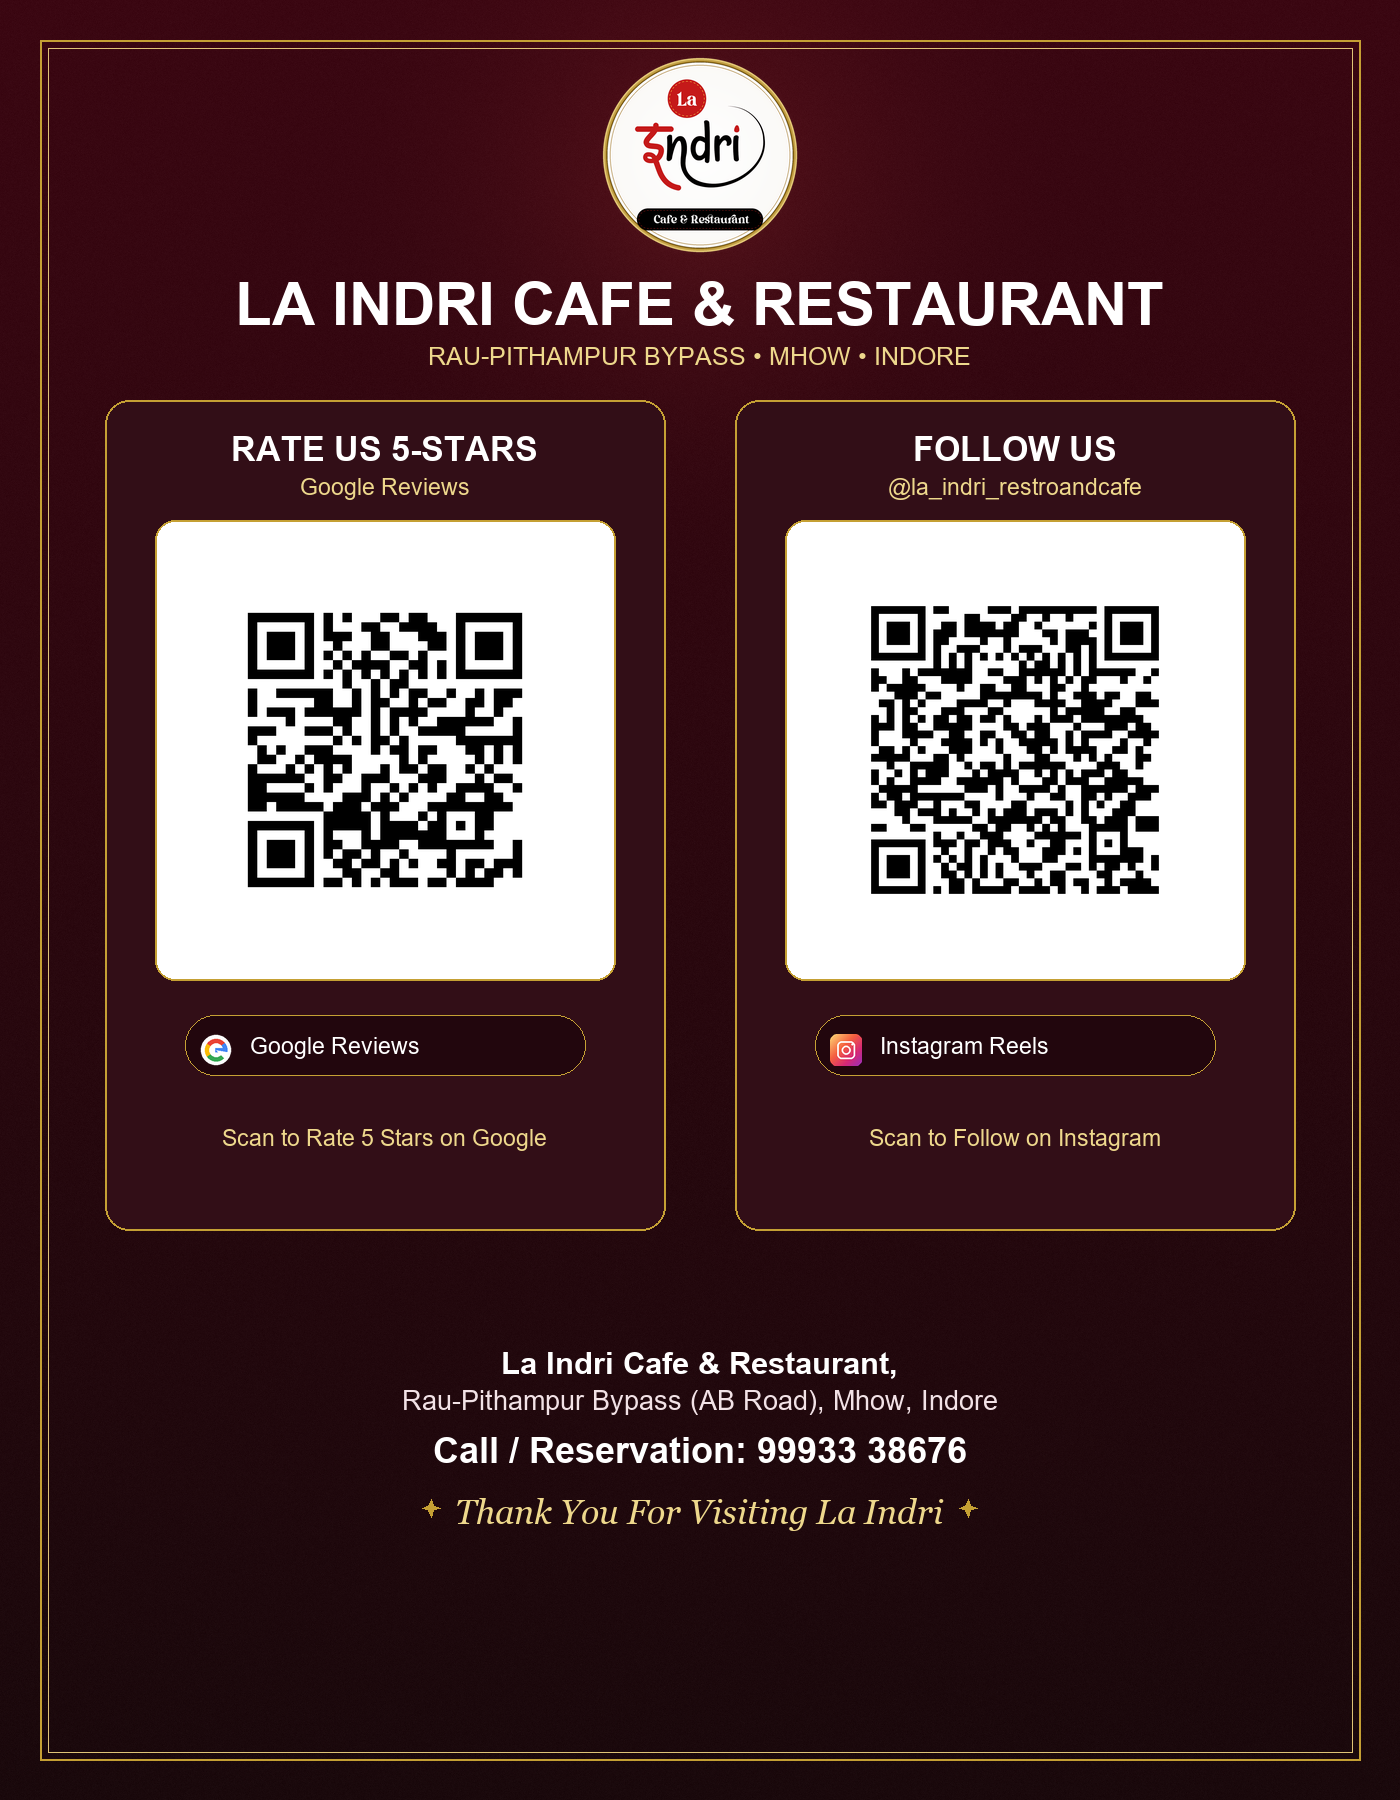
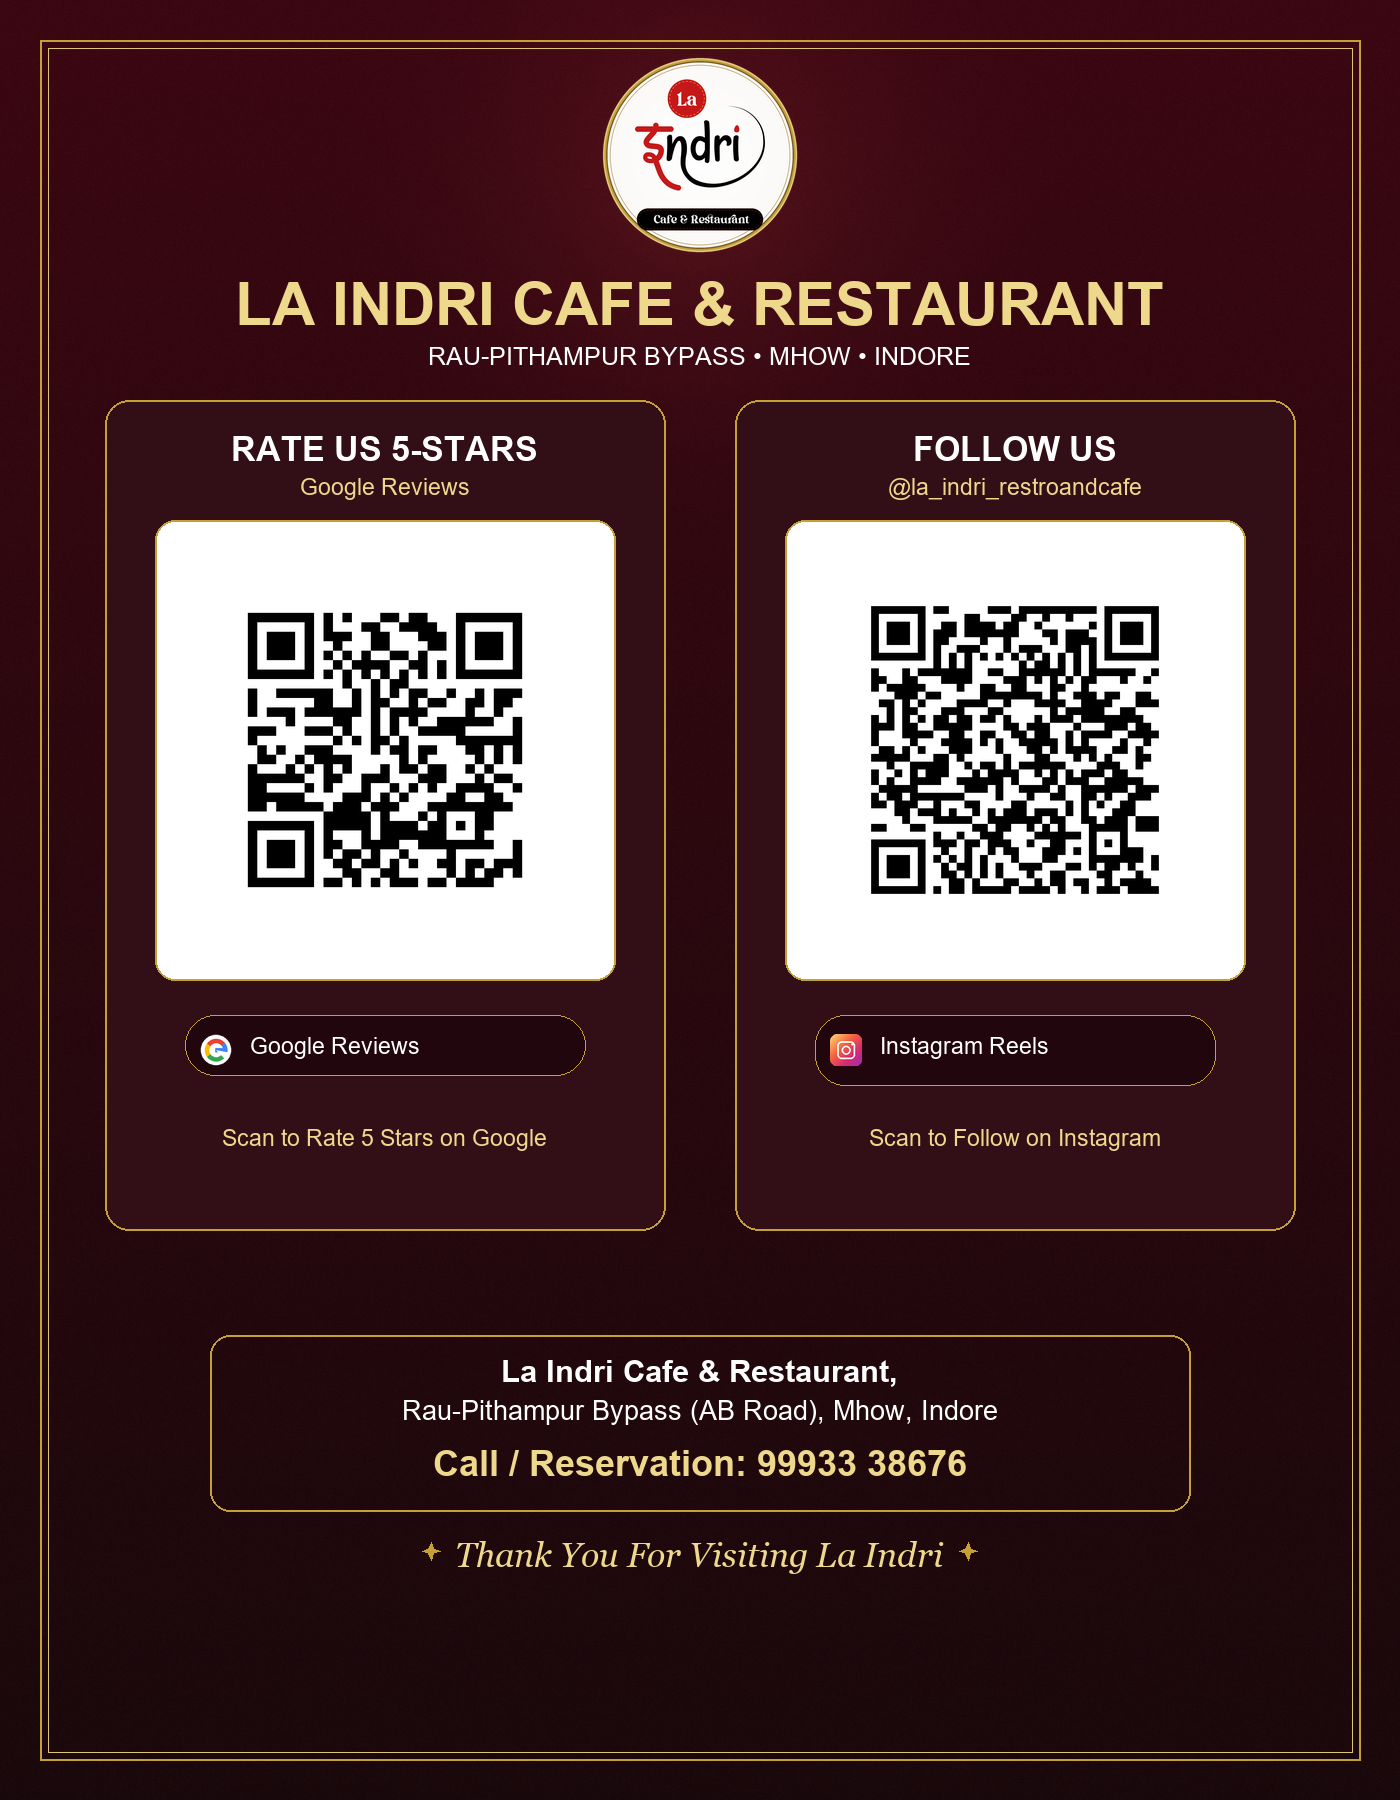
update: exact reference image styling with gold title, white subtitle, 1cm QR margin, and gold framed address/phone

Changed region(s): [[0.2764, 0.7467, 0.7064, 0.8711], [0.1536, 0.1556, 0.8293, 0.2178]]

diff --git a/standee.html b/standee.html
@@ -124,14 +124,14 @@
             font-size: 24px;
             font-weight: 800;
             letter-spacing: 0.6px;
-            color: #ffffff;
+            color: #eed88c;
             margin-bottom: 3px;
         }
 
         .brand-sub {
             font-size: 11.5px;
             font-weight: 600;
-            color: #eed88c;
+            color: #ffffff;
             letter-spacing: 1.2px;
             text-transform: uppercase;
             margin-bottom: 6px;
@@ -215,15 +215,28 @@
 
         /* Footer */
         .footer-block {
+            width: 100%;
             margin-bottom: 2px;
             display: flex;
             flex-direction: column;
             align-items: center;
-            gap: 3px;
+            gap: 4px;
+        }
+
+        .address-box {
+            border: 1.5px solid #c5a034;
+            border-radius: 14px;
+            padding: 9px 18px;
+            width: 92%;
+            display: flex;
+            flex-direction: column;
+            align-items: center;
+            gap: 2px;
+            margin-bottom: 5px;
         }
 
         .location-title {
-            font-size: 13.5px;
+            font-size: 13px;
             font-weight: 700;
             color: #ffffff;
             letter-spacing: 0.3px;
@@ -231,16 +244,16 @@
 
         .location-text {
             font-size: 11px;
-            color: #f2e2e6;
+            color: #ffffff;
             line-height: 1.35;
         }
 
         .phone-text {
-            font-size: 14.5px;
-            color: #ffffff;
+            font-size: 14px;
+            color: #eed88c;
             font-weight: 800;
             letter-spacing: 0.4px;
-            margin-top: 1px;
+            margin-top: 2px;
         }
 
         .footer-note {
@@ -321,9 +334,11 @@
 
         <!-- Bottom: Location, Phone & Footer -->
         <div class="footer-block">
-            <div class="location-title">La Indri Cafe & Restaurant,</div>
-            <div class="location-text" id="stAddress">Rau-Pithampur Bypass (AB Road), Mhow, Indore</div>
-            <div class="phone-text" id="stPhone">Call / Reservation: 99933 38676</div>
+            <div class="address-box">
+                <div class="location-title">La Indri Cafe & Restaurant,</div>
+                <div class="location-text" id="stAddress">Rau-Pithampur Bypass (AB Road), Mhow, Indore</div>
+                <div class="phone-text" id="stPhone">Call / Reservation: 99933 38676</div>
+            </div>
             <div class="footer-note">
                 <span class="sparkle-icon">✦</span>
                 <span id="stFooterThanks">Thank You For Visiting La Indri</span>

diff --git a/generate_qr.py b/generate_qr.py
@@ -204,33 +204,33 @@ def generate_single_direct_standee(qr_img, title, tagline, badge_icon, badge_tex
     standee = create_luxury_burgundy_background(w, h)
     draw = ImageDraw.Draw(standee)
 
-    # Thin, subtle satin gold double border
+    # 1. Thin, subtle satin gold double border
     border_margin = 42
     draw.rectangle([border_margin, border_margin, w - border_margin, h - border_margin], outline="#c5a034", width=2)
     draw.rectangle([border_margin + 8, border_margin + 8, w - border_margin - 8, h - border_margin - 8], outline="#dfc476", width=1)
 
     brand_font, instruction_font, sub_font, badge_font, addr1_font, addr2_font, phone_font, thanks_font = get_fonts()
 
-    # Header: Logo (Prominent 250x250)
+    # 2. Header: Logo Medallion (Prominent 250x250)
     logo_file = "logo_with_gold_rim.png" if os.path.exists("logo_with_gold_rim.png") else "logo.png"
     if os.path.exists(logo_file):
         logo = Image.open(logo_file).convert("RGBA").resize((250, 250), Image.Resampling.LANCZOS)
         standee.paste(logo, ((w - 250) // 2, 65), logo)
 
-    # Brand Title
+    # 3. Brand Title: GOLD (as in reference image)
     name_display = f"{cfg.get('restaurantName', 'LA INDRI').upper()} CAFE & RESTAURANT"
     nb = draw.textbbox((0, 0), name_display, font=brand_font)
-    draw.text(((w - (nb[2] - nb[0])) // 2, 330), name_display, fill="#ffffff", font=brand_font)
+    draw.text(((w - (nb[2] - nb[0])) // 2, 330), name_display, fill="#eed88c", font=brand_font)
 
-    # Tagline
+    # 4. Location Subtitle: WHITE (as in reference image)
     tb2 = draw.textbbox((0, 0), tagline, font=sub_font)
-    draw.text(((w - (tb2[2] - tb2[0])) // 2, 390), tagline, fill="#eed88c", font=sub_font)
+    draw.text(((w - (tb2[2] - tb2[0])) // 2, 390), tagline, fill="#ffffff", font=sub_font)
 
-    # Instruction Title
+    # 5. Instruction Title: WHITE (as in reference image)
     ib = draw.textbbox((0, 0), title, font=instruction_font)
     draw.text(((w - (ib[2] - ib[0])) // 2, 445), title, fill="#ffffff", font=instruction_font)
 
-    # Clean Pill Badge
+    # 6. Clean Pill Badge
     bb = draw.textbbox((0, 0), badge_text, font=badge_font)
     b_w = (bb[2] - bb[0]) + 76
     b_h = 56
@@ -242,10 +242,10 @@ def generate_single_direct_standee(qr_img, title, tagline, badge_icon, badge_tex
         standee.paste(ico, (b_x + 16, b_y + 11), ico)
     draw.text((b_x + 64, b_y + 14), badge_text, fill="#ffffff", font=badge_font)
 
-    # Big Direct QR Card with approx 1 cm (~118px) white margin
+    # 7. Big Direct QR Card with approx 1 cm (~118px) white margin
     qr_card_size = 750
     qr_card_x = (w - qr_card_size) // 2
-    qr_card_y = 580
+    qr_card_y = 575
     margin_1cm = 118
     qr_size = qr_card_size - 2 * margin_1cm
     draw.rounded_rectangle(
@@ -255,27 +255,39 @@ def generate_single_direct_standee(qr_img, title, tagline, badge_icon, badge_tex
     qr_resized = qr_img.resize((qr_size, qr_size), Image.Resampling.LANCZOS)
     standee.paste(qr_resized, (qr_card_x + margin_1cm, qr_card_y + margin_1cm))
 
-    # Bottom Address & Phone (Bigger, bright, 2-line address + bold phone)
+    # 8. Address + Phone Framed in Thin Gold Box (as in reference image)
+    box_w = 980
+    box_h = 176
+    box_x = (w - box_w) // 2
+    box_y = 1345
+    draw.rounded_rectangle(
+        [box_x, box_y, box_x + box_w, box_y + box_h],
+        radius=20, fill=None, outline="#c5a034", width=2
+    )
+
     addr_line1 = "La Indri Cafe & Restaurant,"
     addr_line2 = "Rau-Pithampur Bypass (AB Road), Mhow, Indore"
     phone_text = cfg.get("phoneButtonText", "Call / Reservation: 99933 38676")
 
+    # Address lines in WHITE
     a1_b = draw.textbbox((0, 0), addr_line1, font=addr1_font)
-    draw.text(((w - (a1_b[2] - a1_b[0])) // 2, 1362), addr_line1, fill="#ffffff", font=addr1_font)
+    draw.text(((w - (a1_b[2] - a1_b[0])) // 2, box_y + 18), addr_line1, fill="#ffffff", font=addr1_font)
 
     a2_b = draw.textbbox((0, 0), addr_line2, font=addr2_font)
-    draw.text(((w - (a2_b[2] - a2_b[0])) // 2, 1406), addr_line2, fill="#f2e2e6", font=addr2_font)
+    draw.text(((w - (a2_b[2] - a2_b[0])) // 2, box_y + 60), addr_line2, fill="#ffffff", font=addr2_font)
 
+    # Phone line in GOLD & BOLD
     pb = draw.textbbox((0, 0), phone_text, font=phone_font)
-    draw.text(((w - (pb[2] - pb[0])) // 2, 1456), phone_text, fill="#ffffff", font=phone_font)
+    draw.text(((w - (pb[2] - pb[0])) // 2, box_y + 108), phone_text, fill="#eed88c", font=phone_font)
 
+    # 9. Bottom Thanks with Gold Sparkles
     thanks_text = "Thank You For Visiting La Indri"
     thb = draw.textbbox((0, 0), thanks_text, font=thanks_font)
     tw = thb[2] - thb[0]
     tx = (w - tw) // 2
-    draw.text((tx, 1522), thanks_text, fill="#eed88c", font=thanks_font)
-    draw_gold_sparkle(draw, tx - 24, 1538, 9, "#c5a034")
-    draw_gold_sparkle(draw, tx + tw + 24, 1538, 9, "#c5a034")
+    draw.text((tx, 1545), thanks_text, fill="#eed88c", font=thanks_font)
+    draw_gold_sparkle(draw, tx - 24, 1561, 9, "#c5a034")
+    draw_gold_sparkle(draw, tx + tw + 24, 1561, 9, "#c5a034")
 
     for fn in out_filenames:
         standee.save(fn, "PNG", dpi=(300, 300))
@@ -285,31 +297,35 @@ def generate_dual_link_standee(qr_img, cfg):
     standee = create_luxury_burgundy_background(w, h)
     draw = ImageDraw.Draw(standee)
 
-    # Thin, subtle satin gold double border
+    # 1. Thin, subtle satin gold double border
     border_margin = 42
     draw.rectangle([border_margin, border_margin, w - border_margin, h - border_margin], outline="#c5a034", width=2)
     draw.rectangle([border_margin + 8, border_margin + 8, w - border_margin - 8, h - border_margin - 8], outline="#dfc476", width=1)
 
     brand_font, instruction_font, sub_font, badge_font, addr1_font, addr2_font, phone_font, thanks_font = get_fonts()
 
+    # 2. Header: Logo Medallion
     logo_file = "logo_with_gold_rim.png" if os.path.exists("logo_with_gold_rim.png") else "logo.png"
     if os.path.exists(logo_file):
         logo = Image.open(logo_file).convert("RGBA").resize((250, 250), Image.Resampling.LANCZOS)
         standee.paste(logo, ((w - 250) // 2, 65), logo)
 
+    # 3. Brand Title: GOLD (as in reference image)
     name_display = f"{cfg.get('restaurantName', 'LA INDRI').upper()} CAFE & RESTAURANT"
     nb = draw.textbbox((0, 0), name_display, font=brand_font)
-    draw.text(((w - (nb[2] - nb[0])) // 2, 330), name_display, fill="#ffffff", font=brand_font)
+    draw.text(((w - (nb[2] - nb[0])) // 2, 330), name_display, fill="#eed88c", font=brand_font)
 
+    # 4. Location Subtitle: WHITE (as in reference image)
     tag_text = cfg.get("tagline", "RAU-PITHAMPUR BYPASS • MHOW • INDORE").replace("*", "•")
     tb2 = draw.textbbox((0, 0), tag_text, font=sub_font)
-    draw.text(((w - (tb2[2] - tb2[0])) // 2, 390), tag_text, fill="#eed88c", font=sub_font)
+    draw.text(((w - (tb2[2] - tb2[0])) // 2, 390), tag_text, fill="#ffffff", font=sub_font)
 
+    # 5. Instruction Title: WHITE
     inst_text = "SCAN TO CONNECT"
     ib = draw.textbbox((0, 0), inst_text, font=instruction_font)
     draw.text(((w - (ib[2] - ib[0])) // 2, 445), inst_text, fill="#ffffff", font=instruction_font)
 
-    # Badges for Google and Instagram side-by-side
+    # 6. Badges for Google and Instagram side-by-side
     g_text = "Rate Us on Google"
     i_text = "Follow Us on Instagram"
     gb_box = draw.textbbox((0, 0), g_text, font=badge_font)
@@ -346,10 +362,10 @@ def generate_dual_link_standee(qr_img, cfg):
         standee.paste(i_ico, (insta_x + 16, badges_y + 11), i_ico)
     draw.text((insta_x + 64, badges_y + 14), i_text, fill="#ffffff", font=badge_font)
 
-    # Main QR Card with approx 1 cm (~118px) white margin
+    # 7. Main QR Card with approx 1 cm (~118px) white margin
     qr_card_size = 750
     qr_card_x = (w - qr_card_size) // 2
-    qr_card_y = 580
+    qr_card_y = 575
     margin_1cm = 118
     qr_size = qr_card_size - 2 * margin_1cm
     draw.rounded_rectangle(
@@ -359,27 +375,39 @@ def generate_dual_link_standee(qr_img, cfg):
     qr_resized = qr_img.resize((qr_size, qr_size), Image.Resampling.LANCZOS)
     standee.paste(qr_resized, (qr_card_x + margin_1cm, qr_card_y + margin_1cm))
 
-    # Bottom Address & Phone (Bigger, bright, 2-line address + bold phone)
+    # 8. Address + Phone Framed in Thin Gold Box (as in reference image)
+    box_w = 980
+    box_h = 176
+    box_x = (w - box_w) // 2
+    box_y = 1345
+    draw.rounded_rectangle(
+        [box_x, box_y, box_x + box_w, box_y + box_h],
+        radius=20, fill=None, outline="#c5a034", width=2
+    )
+
     addr_line1 = "La Indri Cafe & Restaurant,"
     addr_line2 = "Rau-Pithampur Bypass (AB Road), Mhow, Indore"
     phone_text = cfg.get("phoneButtonText", "Call / Reservation: 99933 38676")
 
+    # Address lines in WHITE
     a1_b = draw.textbbox((0, 0), addr_line1, font=addr1_font)
-    draw.text(((w - (a1_b[2] - a1_b[0])) // 2, 1362), addr_line1, fill="#ffffff", font=addr1_font)
+    draw.text(((w - (a1_b[2] - a1_b[0])) // 2, box_y + 18), addr_line1, fill="#ffffff", font=addr1_font)
 
     a2_b = draw.textbbox((0, 0), addr_line2, font=addr2_font)
-    draw.text(((w - (a2_b[2] - a2_b[0])) // 2, 1406), addr_line2, fill="#f2e2e6", font=addr2_font)
+    draw.text(((w - (a2_b[2] - a2_b[0])) // 2, box_y + 60), addr_line2, fill="#ffffff", font=addr2_font)
 
+    # Phone line in GOLD & BOLD
     pb = draw.textbbox((0, 0), phone_text, font=phone_font)
-    draw.text(((w - (pb[2] - pb[0])) // 2, 1456), phone_text, fill="#ffffff", font=phone_font)
+    draw.text(((w - (pb[2] - pb[0])) // 2, box_y + 108), phone_text, fill="#eed88c", font=phone_font)
 
+    # 9. Bottom Thanks with Gold Sparkles
     thanks_text = "Thank You For Visiting La Indri"
     thb = draw.textbbox((0, 0), thanks_text, font=thanks_font)
     tw = thb[2] - thb[0]
     tx = (w - tw) // 2
-    draw.text((tx, 1522), thanks_text, fill="#eed88c", font=thanks_font)
-    draw_gold_sparkle(draw, tx - 24, 1538, 9, "#c5a034")
-    draw_gold_sparkle(draw, tx + tw + 24, 1538, 9, "#c5a034")
+    draw.text((tx, 1545), thanks_text, fill="#eed88c", font=thanks_font)
+    draw_gold_sparkle(draw, tx - 24, 1561, 9, "#c5a034")
+    draw_gold_sparkle(draw, tx + tw + 24, 1561, 9, "#c5a034")
 
     standee.save("table_standee_printable.png", "PNG", dpi=(300, 300))
     standee.save("front_page_standee.png", "PNG", dpi=(300, 300))
@@ -419,11 +447,11 @@ def generate_dual_standee_card(img_google, img_insta, cfg):
 
     title = f"{cfg.get('restaurantName', 'LA INDRI').upper()} CAFE & RESTAURANT"
     tb = draw.textbbox((0, 0), title, font=title_font)
-    draw.text(((w - (tb[2] - tb[0])) // 2, 270), title, fill="#ffffff", font=title_font)
+    draw.text(((w - (tb[2] - tb[0])) // 2, 270), title, fill="#eed88c", font=title_font)
 
     sub = "RAU-PITHAMPUR BYPASS • MHOW • INDORE"
     sb = draw.textbbox((0, 0), sub, font=sub_font)
-    draw.text(((w - (sb[2] - sb[0])) // 2, 342), sub, fill="#eed88c", font=sub_font)
+    draw.text(((w - (sb[2] - sb[0])) // 2, 342), sub, fill="#ffffff", font=sub_font)
 
     card_w, card_h = 560, 830
     y_pos = 400
@@ -474,7 +502,7 @@ def generate_dual_standee_card(img_google, img_insta, cfg):
     standee.paste(qr_i_resized, (qr_x_i + margin_dual, y_pos + 120 + margin_dual))
 
     # Instagram badge pill
-    draw.rounded_rectangle([x_i + 80, y_pos + 615, x_i + card_w - 80, y_pos + 675], radius=30, fill="#22060d", outline="#c5a034", width=1)
+    draw.rounded_rectangle([x_i + 80, y_pos + 615, x_i + card_w - 80, y_pos + 685], radius=30, fill="#22060d", outline="#c5a034", width=1)
     if os.path.exists("instagram_icon.png"):
         i_ico = Image.open("instagram_icon.png").convert("RGBA").resize((32, 32), Image.Resampling.LANCZOS)
         standee.paste(i_ico, (x_i + 95, y_pos + 634), i_ico)
@@ -485,27 +513,36 @@ def generate_dual_standee_card(img_google, img_insta, cfg):
     ibtn_b = draw.textbbox((0, 0), i_btn, font=box_sub_font)
     draw.text((x_i + (card_w - (ibtn_b[2] - ibtn_b[0])) // 2, y_pos + 725), i_btn, fill="#eed88c", font=box_sub_font)
 
-    # Bottom Address & Phone (Bigger, bright, 2-line address + bold phone)
+    # Address + Phone Framed in Thin Gold Box
+    box_w = 980
+    box_h = 176
+    box_x = (w - box_w) // 2
+    box_y = 1335
+    draw.rounded_rectangle(
+        [box_x, box_y, box_x + box_w, box_y + box_h],
+        radius=20, fill=None, outline="#c5a034", width=2
+    )
+
     addr_line1 = "La Indri Cafe & Restaurant,"
     addr_line2 = "Rau-Pithampur Bypass (AB Road), Mhow, Indore"
     phone_text = cfg.get("phoneButtonText", "Call / Reservation: 99933 38676")
 
     a1_b = draw.textbbox((0, 0), addr_line1, font=addr1_font)
-    draw.text(((w - (a1_b[2] - a1_b[0])) // 2, 1345), addr_line1, fill="#ffffff", font=addr1_font)
+    draw.text(((w - (a1_b[2] - a1_b[0])) // 2, box_y + 18), addr_line1, fill="#ffffff", font=addr1_font)
 
     a2_b = draw.textbbox((0, 0), addr_line2, font=addr2_font)
-    draw.text(((w - (a2_b[2] - a2_b[0])) // 2, 1385), addr_line2, fill="#f2e2e6", font=addr2_font)
+    draw.text(((w - (a2_b[2] - a2_b[0])) // 2, box_y + 60), addr_line2, fill="#ffffff", font=addr2_font)
 
     pb = draw.textbbox((0, 0), phone_text, font=phone_font)
-    draw.text(((w - (pb[2] - pb[0])) // 2, 1430), phone_text, fill="#ffffff", font=phone_font)
+    draw.text(((w - (pb[2] - pb[0])) // 2, box_y + 108), phone_text, fill="#eed88c", font=phone_font)
 
     thanks_text = "Thank You For Visiting La Indri"
     th_b = draw.textbbox((0, 0), thanks_text, font=thanks_font)
     tw = th_b[2] - th_b[0]
     tx = (w - tw) // 2
-    draw.text((tx, 1492), thanks_text, fill="#eed88c", font=thanks_font)
-    draw_gold_sparkle(draw, tx - 24, 1508, 9, "#c5a034")
-    draw_gold_sparkle(draw, tx + tw + 24, 1508, 9, "#c5a034")
+    draw.text((tx, 1535), thanks_text, fill="#eed88c", font=thanks_font)
+    draw_gold_sparkle(draw, tx - 24, 1551, 9, "#c5a034")
+    draw_gold_sparkle(draw, tx + tw + 24, 1551, 9, "#c5a034")
 
     standee.save("standee_dual_direct_static.png", "PNG", dpi=(300, 300))
 
